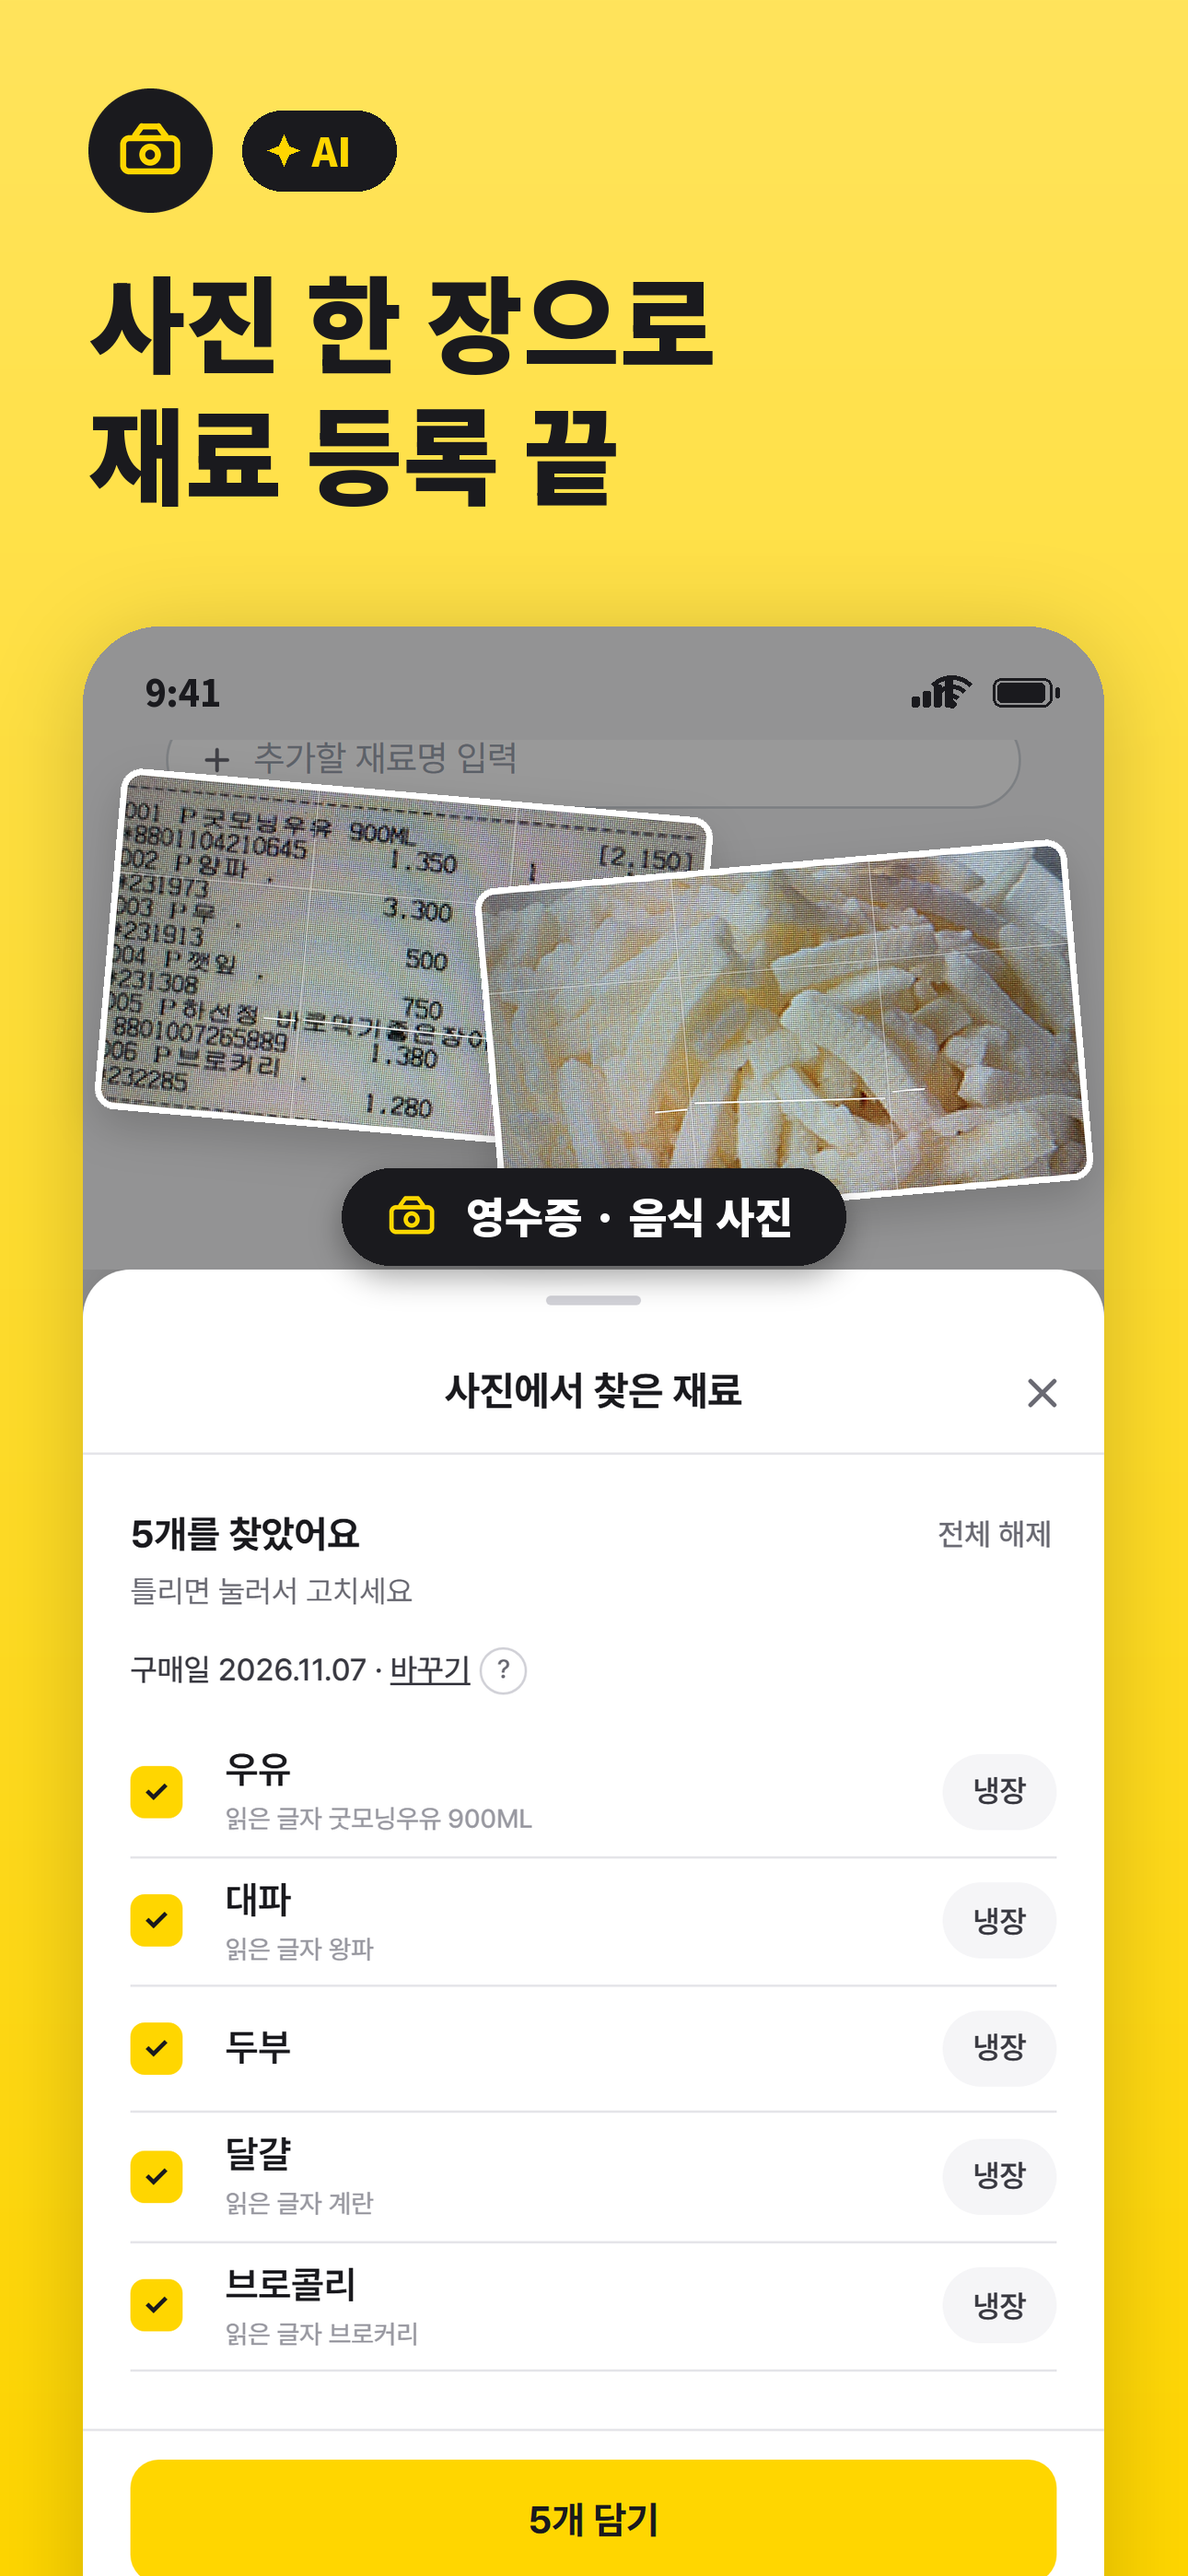
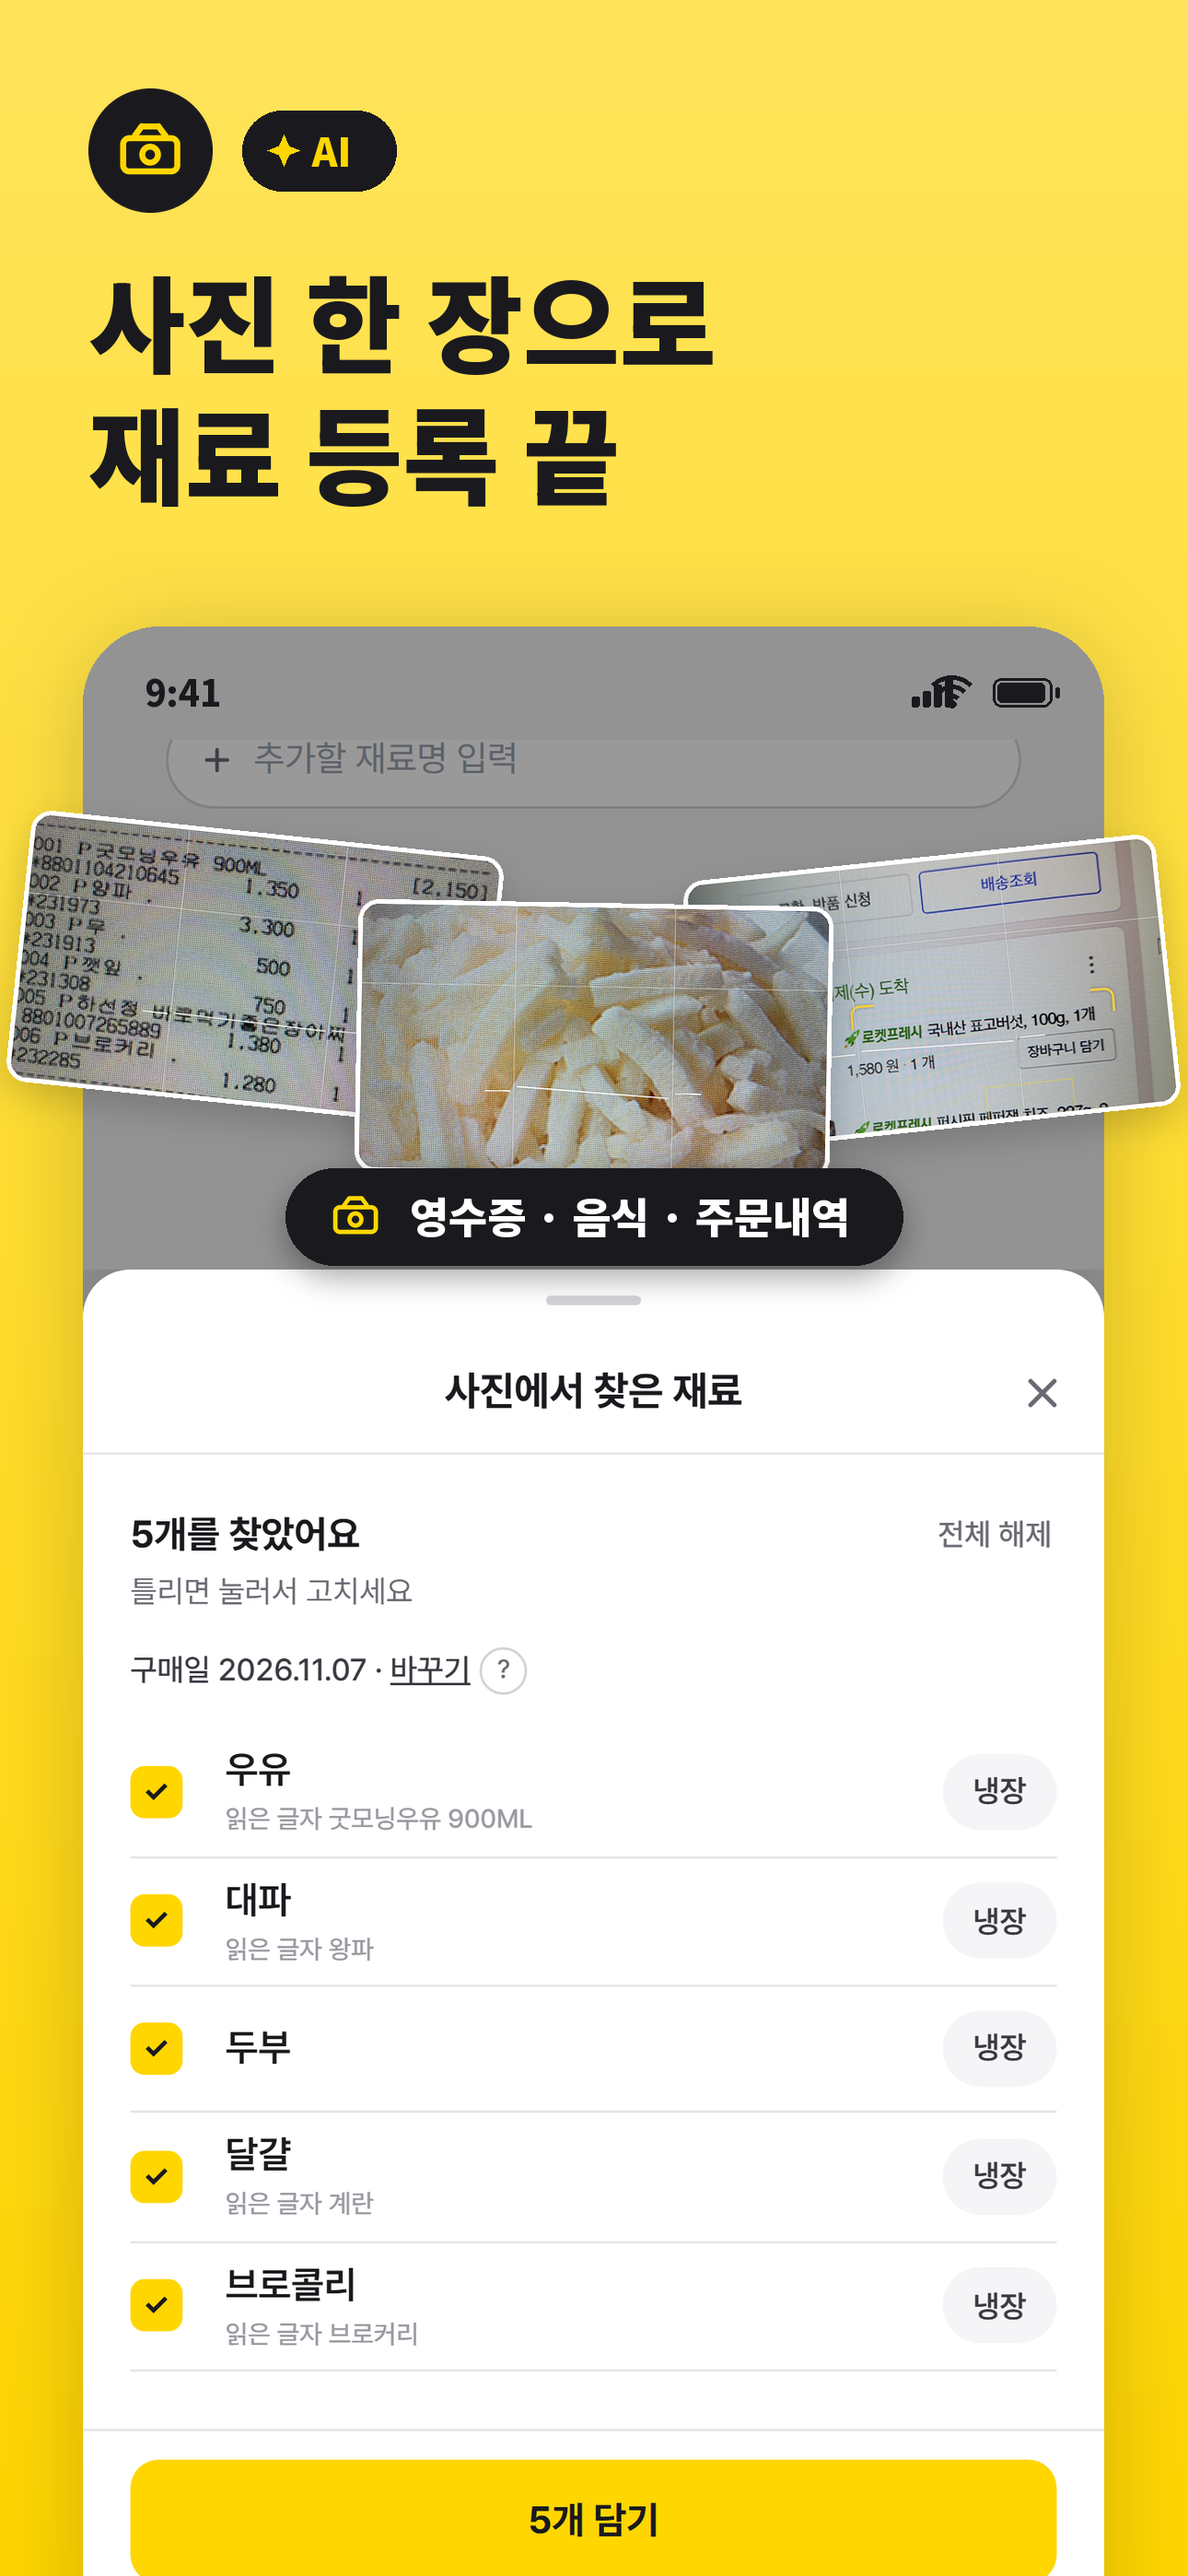
스토어 v3 요약 칩·사진 장 주문내역

Changed region(s): [[0.0, 0.28, 0.9922, 0.4979]]

diff --git a/store/make_store_assets_v3.py b/store/make_store_assets_v3.py
@@ -243,14 +243,14 @@ def paste_phone(img, screen, px0, y, pw, radius, band):
 
 
 def flow_chips(img, W, y, band):
-    """조리 순서 장의 흐름 칩: 원문 → 5단계 요약 → 읽어 주기. 반환: 다음 요소의 y."""
+    """조리 순서 장의 흐름 칩: 원문 → 요약 → 읽어 주기(단계 수는 쓰지 않는다 — 레시피마다 다르다). 반환: 다음 요소의 y."""
     d = ImageDraw.Draw(img)
     pad = int(W * PAD)
     h = int(W * 0.088)
     f = font(int(W * 0.0385), 800)
     fb = font(int(W * 0.0385), 900)
     gap = int(W * 0.045)
-    items = [("원문", "dim"), ("5단계 요약", "hi"), ("읽어 주기", "dim")]
+    items = [("원문", "dim"), ("요약", "hi"), ("읽어 주기", "dim")]
     x = pad
     for i, (t, kind) in enumerate(items):
         ff = fb if kind == "hi" else f
@@ -280,14 +280,16 @@ def photo_cards(img, W, phone_y, pw):
     dim_top = phone_y + int(48 * css)
     dim_bot = phone_y + int((48 + 223) * css)
     mid = (dim_top + dim_bot) // 2
-    cw = int(W * 0.50)
+    cw = int(W * 0.40)
     box = (0, 706, 1206, 1400)
-    v2.paste_card(img, os.path.join(SRC, "camera_receipt.png"), box, cw, int(W * 0.5 - W * 0.16), mid - int(W * 0.035), -5)
-    v2.paste_card(img, os.path.join(SRC, "camera_pizza_cheese.png"), box, cw, int(W * 0.5 + W * 0.16), mid + int(W * 0.025), 5)
+    # 왼쪽 영수증 · 가운데(뒤→앞) 음식 한 접시 · 오른쪽 쿠팡 주문내역(여러 식품) — 2026-11-07 「여러 음식이 있는 사진도」
+    v2.paste_card(img, os.path.join(SRC, "camera_receipt.png"), box, cw, int(W * 0.5 - W * 0.285), mid - int(W * 0.03), -6)
+    v2.paste_card(img, os.path.join(SRC, "camera_coupang.png"), box, cw, int(W * 0.5 + W * 0.285), mid - int(W * 0.01), 6)
+    v2.paste_card(img, os.path.join(SRC, "camera_pizza_cheese.png"), box, cw, int(W * 0.5), mid + int(W * 0.03), -1)
     # 칩: 카드 아래쪽 가운데에 걸친다
     d = ImageDraw.Draw(img)
     f = font(int(W * 0.036), 900)
-    txt = "영수증 · 음식 사진"
+    txt = "영수증 · 음식 · 주문내역"
     h = int(W * 0.082)
     ic = v2.draw_icon("camera", int(h * 0.56), color=BRAND)
     tw = d.textlength(txt, font=f)

diff --git a/store/STORE_LISTING.md b/store/STORE_LISTING.md
@@ -105,7 +105,7 @@
 
 **이번 수정으로 바뀐 것(이유)**:
 1. **5번이던 AI 장에서 「사진 찍기」를 뺌** → 지금 6번 장은 쿡 픽·식단 짜기·쿡 코치만. 이유: 폰 위쪽 흐린 배경에 남은 알약·조각이 사진 기능처럼 보였다(`fix_chat()` 이 시트 위 흐린 배경의 매칭도·필터 줄 조각을 배경색으로 덮고, 시트 자체는 그대로).
-2. **사진 장(지금 5번)에 음식 사진 추가**: 영수증 한 장만 보이던 것을 영수증 + 음식 사진 두 장 + 「영수증 · 음식 사진」 칩 + 아래 읽은 결과 시트로 「사진 → 재료 목록」이 한눈에 보이게. 카메라 원본(`store/sources/camera_*`)은 노란 초점 괄호·줌 버튼·셔터가 있어 **사진 영역만** 잘라 쓴다(노란 UI 제외).
+2. **사진 장(지금 5번)에 음식 사진 추가**: 영수증 한 장만 보이던 것을 영수증 + 음식 사진 두 장 + 「영수증 · 음식 · 주문내역」 칩 + 아래 읽은 결과 시트로 「사진 → 재료 목록」이 한눈에 보이게. 카메라 원본(`store/sources/camera_*`)은 노란 초점 괄호·줌 버튼·셔터가 있어 **사진 영역만** 잘라 쓴다(노란 UI 제외).
 3. **듣기 장을 2번으로**, 헤드라인에 「요약」을 넣음: 앱 레시피 창의 「조리 순서」는 원문 블로그·영상을 단계별로 정리한 것이고(창 하단 문구도 「원문을 요약한 거예요」) 「읽어 주기」로 읽어 준다 — 문구가 사실. 「5단계」는 이 장에 보이는 레시피가 5단계라서 쓴 값(화면과 같다). 길던 원문이 줄었다는 가짜 연출 화면은 만들지 않았다.
 4. **썸네일 블러·N/YT 배지 가림 해제**: 사용자 판단 「앱스토어에 올린 것들은 원래부터 네이버·유튜브 이미지를 써서 괜찮을 것」(2026-11-07 사용자가 말한 사실 기록). 재촬영 시 블러·로고 가림 코드를 껐다. **첫 장은 그대로 직접 그린 타이포·아이콘** 이고 네이버·유튜브 로고 이미지는 새로 만들어 넣지 않았다(글자로만).
 5. **「노란 테두리」 제거**: 사용자가 위치를 지정하지 않아 8장을 모두 열어 장식으로 붙은 노란 외곽·조각을 찾았다(아래 표). 앱 UI 의 기능 색(노란 체크박스·「5개 담기」 버튼·읽는 단계 칩·쿡 픽 노란 아바타 원)은 그대로.
@@ -300,3 +300,5 @@ Google Play "자세한 설명"과 같은 원고. 1.0 제출 때는 iOS 푸시가
 2. **연락처 이메일**: 두 스토어 모두 필수. 받을 수 있는 주소를 정해서 위 표에 채울 것.
 3. **스크린샷과 실제 화면 일치**: 스크린샷은 현재 앱을 직접 캡처한 것이다(2026-11-07 8장으로 재제작, 위 「화면 출처」 참고). 출시 직전 화면이 크게 바뀌면 `store/make_store_assets.py` 의 `SOURCES` 원본(`store/sources/`)만 새로 찍어 바꾸고 다시 뽑을 것.
 4. ~~"푸시 알림" 문구~~ — **해결(2026-09-22)**. 발송용 APNs 키를 서버 배치에 연결하고 실제 아이폰에서 테스트 알림 수신을 확인해 `ios-desc`·`ios-promo` 에 알림 문장을 되돌렸다. App Store Connect 에는 프로모션 텍스트는 바로, 설명은 1.0.1 제출 때 반영.
+
+> 2026-11-07 추가 수정: 요약 칩에서 「5단계」 삭제(단계 수는 레시피마다 다름), 사진 장은 영수증 · 음식 한 접시 · **쿠팡 주문내역(여러 식품)** 세 장으로(`camera_coupang.png` 사용 — 사용자 요청, 로고가 보이지만 기존 스토어 이미지에도 있던 것).
